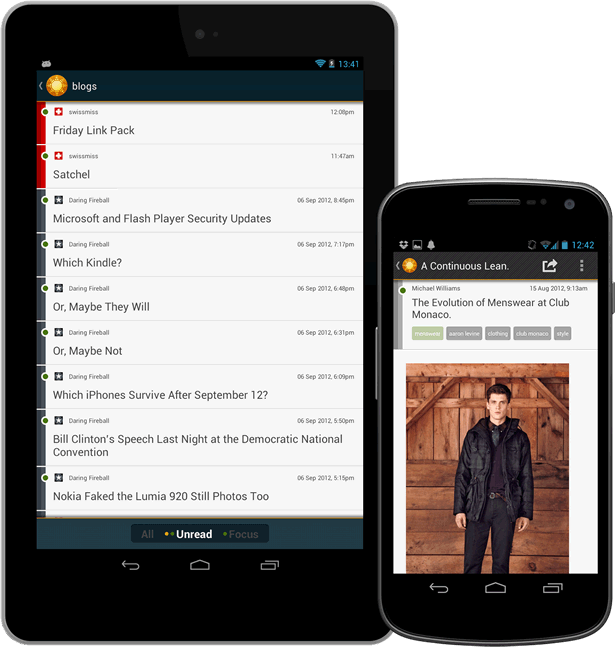
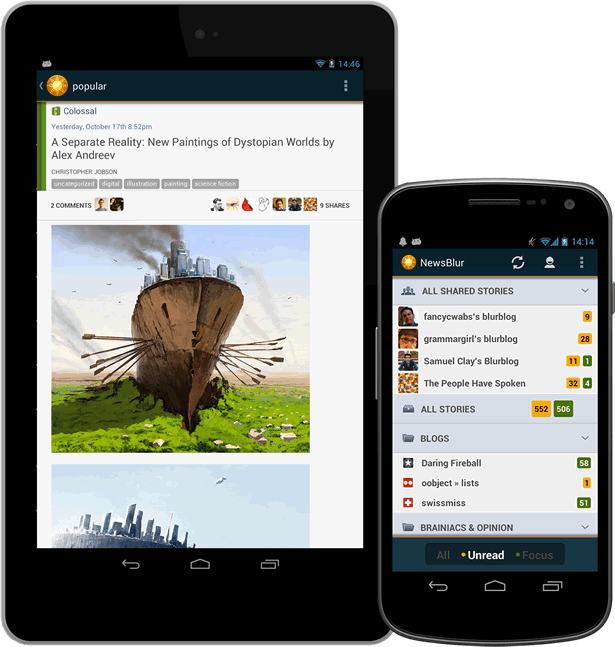
Updating android welcome header graphic.

diff --git a/media/js/newsblur/welcome/welcome.js b/media/js/newsblur/welcome/welcome.js
@@ -64,6 +64,9 @@ NEWSBLUR.Welcome = Backbone.View.extend({
         if (this.flags.on_header_caption && _.isUndefined(force)) {
             return;
         }
+        if (this.flags.on_signin && _.isUndefined(force)) {
+            return;
+        }
         
         var NUM_CAPTIONS = 3;
         var r = force ? force - 1 : (this.rotation + 1) % NUM_CAPTIONS;
